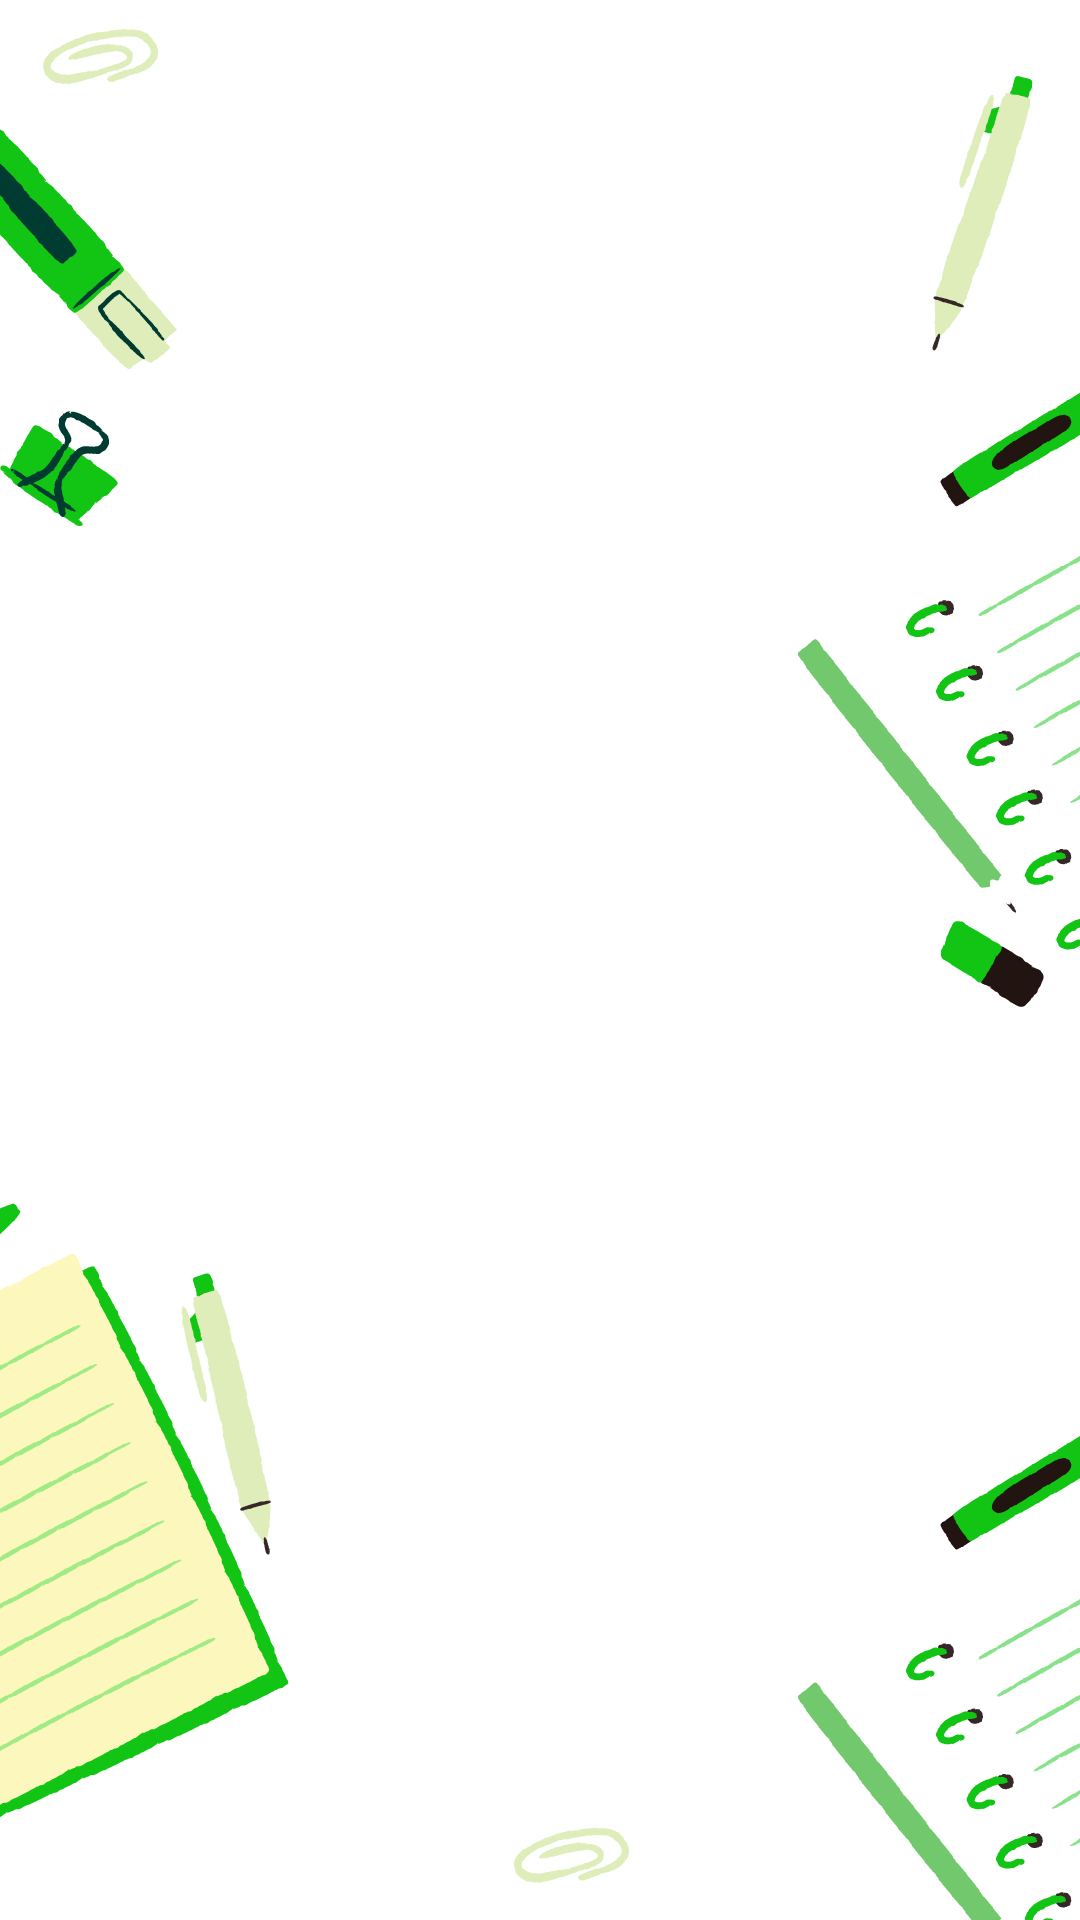
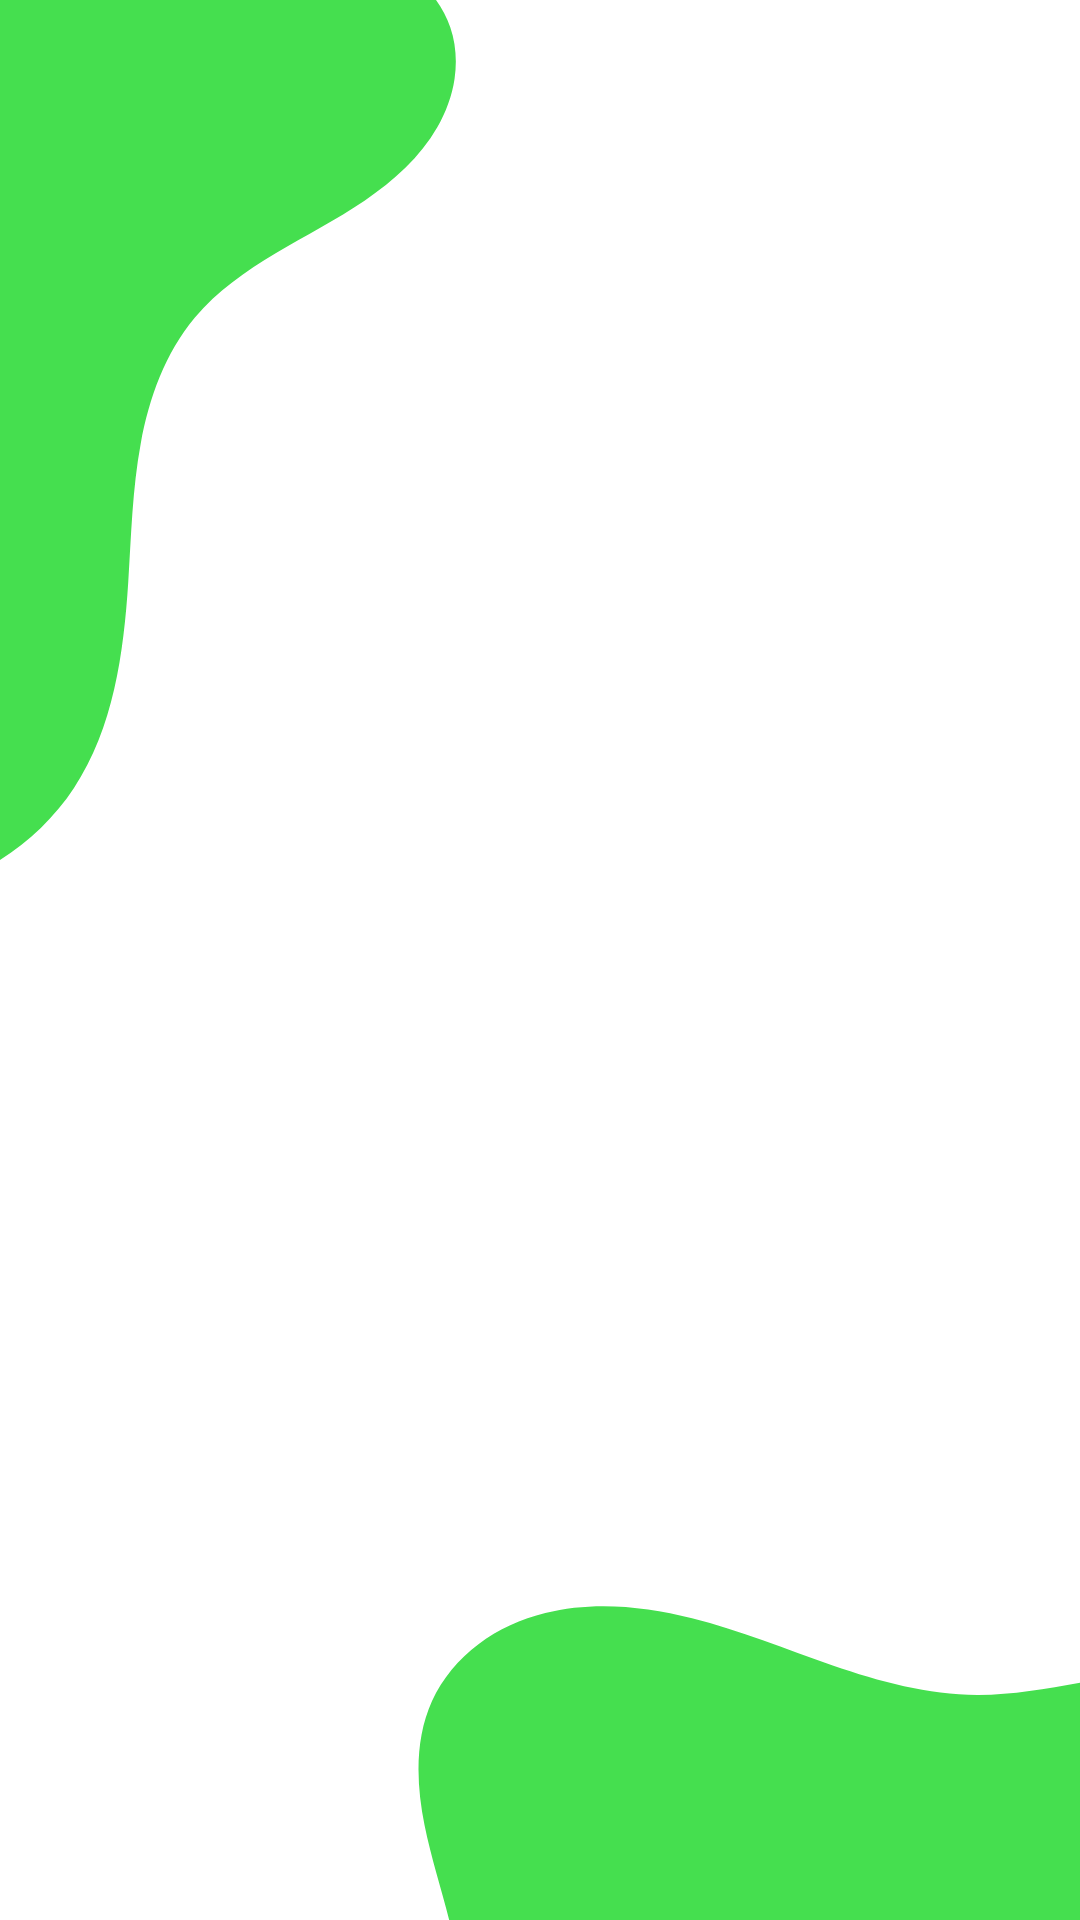
Diseño corregido

diff --git a/src/components/core/Header.vue b/src/components/core/Header.vue
@@ -97,7 +97,7 @@ export default {
 }
 
 .fondo {
-  background-image: url('../../assets/images/Fondofijo.png'); /* Corregido: Cambié 'src' por 'url' */
+  background-image: url('../../assets/images/fondofijo1.png'); /* Corregido: Cambié 'src' por 'url' */
   background-repeat: no-repeat;
   background-size: cover; /* Cambiado a 'cover' para ajustar el tamaño de la imagen al contenedor */
   background-attachment: fixed;
